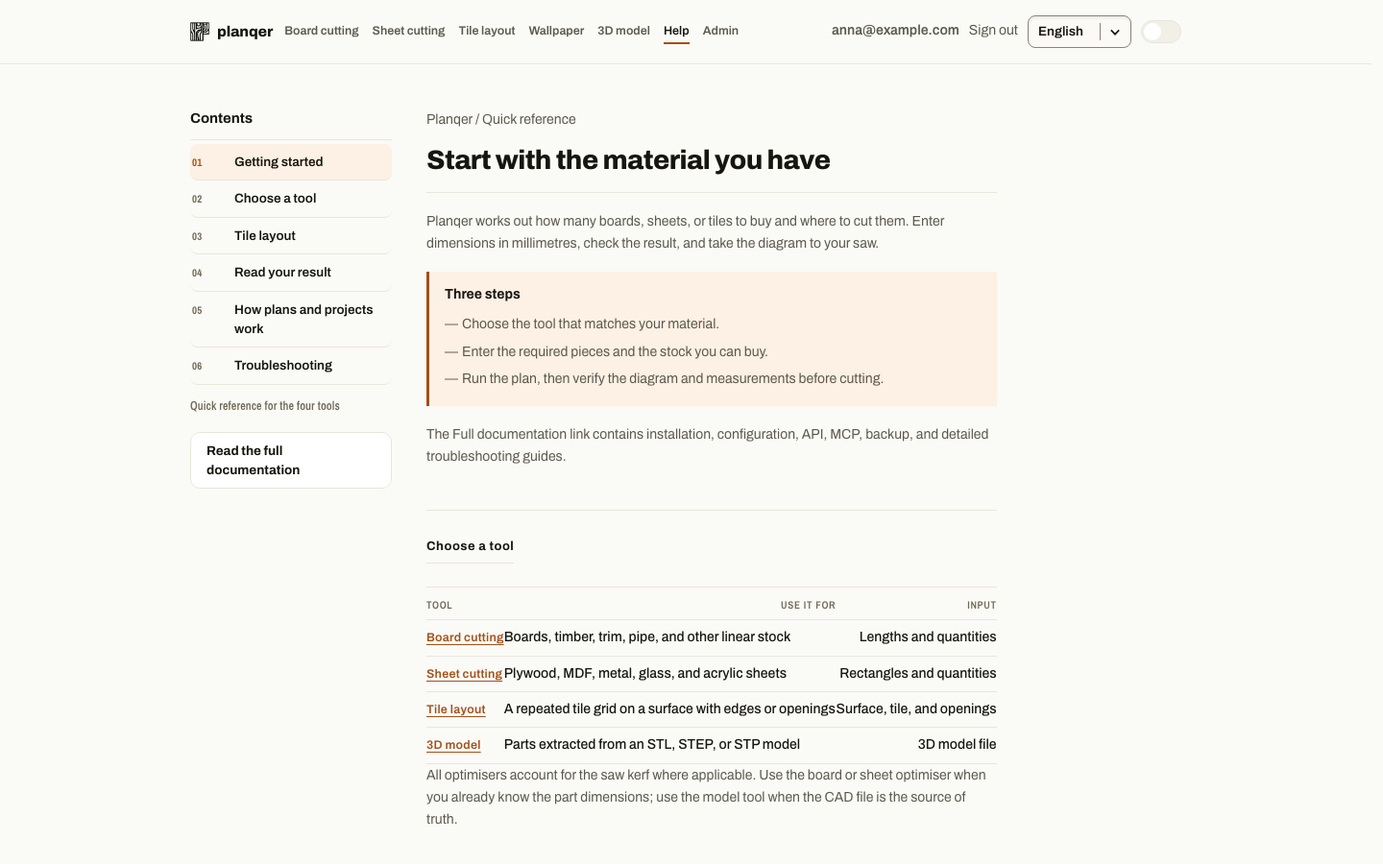
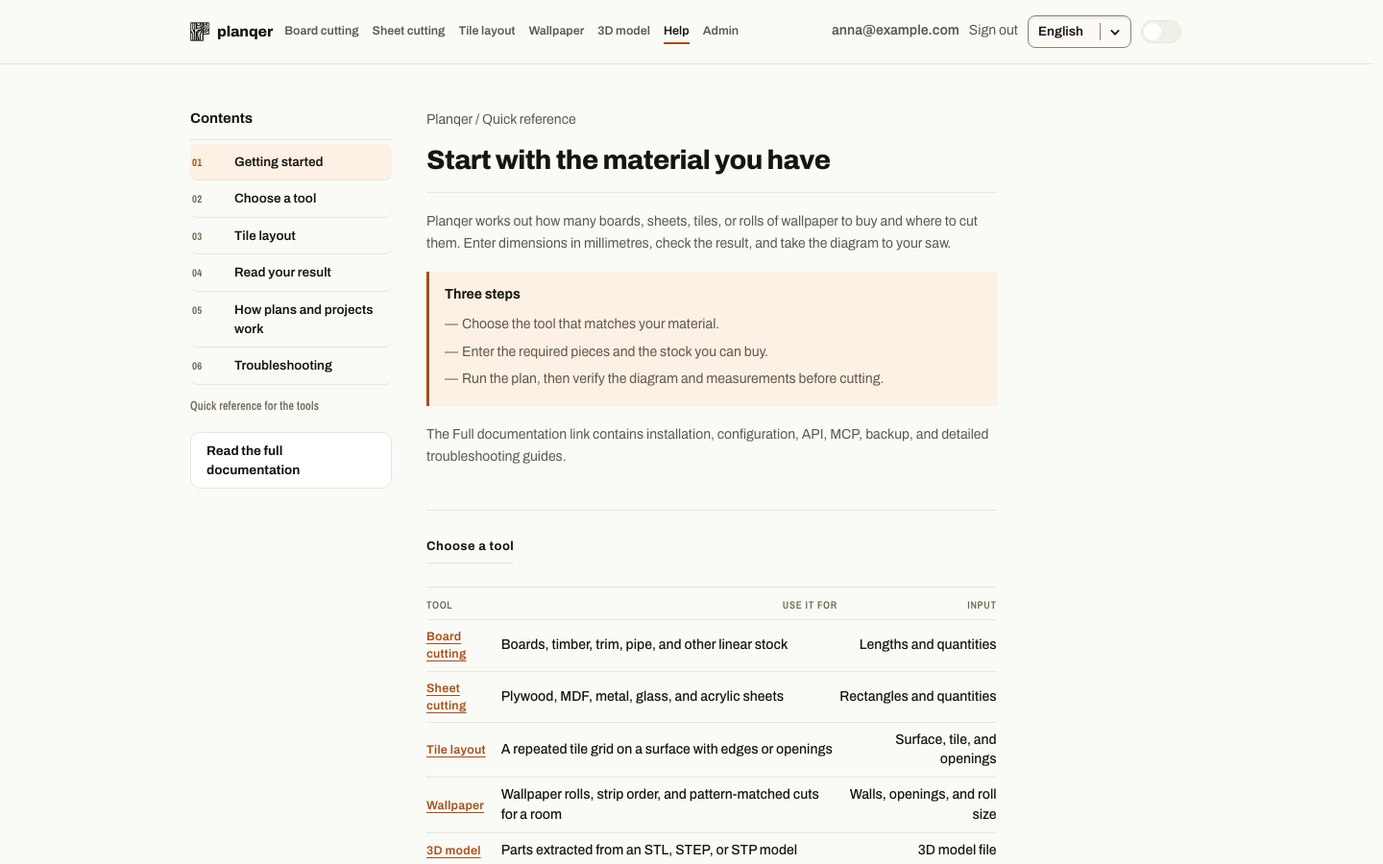
fix: list wallpaper in the Help quick reference
The Help page called itself a reference for the four tools and left
wallpaper out of the tool table and intro. Add it in English, Norwegian
and Swedish and retake the Help screenshot.

diff --git a/frontend/src/i18n/locales/sv-SE.js b/frontend/src/i18n/locales/sv-SE.js
@@ -106,9 +106,9 @@ const locale = {
     turnedParts: 'En streckad kontur markerar en del som roterats 90° för att få plats. Stäng av rotation om fiberriktningen eller mönstret måste följa en bestämd riktning.',
     sheetWaste: 'Skrafferingen markerar materialet som inte används till delarna.',
 
-    sectionGettingStarted: 'Kom igång', sectionChooseTool: 'Välj ett verktyg', sectionTileLayout: 'Plattlayout', sectionResults: 'Läs resultatet', sectionTroubleshooting: 'Felsökning', sectionPlansProjects: "Så fungerar planer och projekt", plansProjectsTitle: "Så fungerar planer och projekt", plansDefinition: "En plan är ett sparat resultat: kapningen för en uppsättning brädor, en skivlayout, en plattlayout eller en tapetplan. Ett projekt är jobbet planerna hör till, till exempel en stol eller en kund.", plansShopping: "Ett projekt ger dig en inköpslista och ett utskrivbart jobbpaket för alla sina planer.", plansSteps: "Spara en plan", plansStepOne: "Planera något och tryck sedan på Namnge och spara.", plansStepTwo: "Ge planen ett namn och välj ett projekt. Vid första sparningen finns inga projekt att välja, så Nytt projekt… är förvalt med namnet Mina planer. Ändra namnet om du vill.", plansStepThree: "Nästa gång är projektet du senast använde förvalt. Välj Nytt projekt… för att börja ett nytt jobb.", plansStepFour: "Ångrat dig? Med Flytta till… på en plan, eller genom att dra den till ett projekt på instrumentpanelen, lägger du den någon annanstans.", contents: 'Innehåll', quickReference: 'Snabbreferens för de fyra verktygen', fullDocumentation: 'Läs hela dokumentationen', eyebrow: 'Planqer / Snabbreferens', startTitle: 'Börja med materialet du har',
-    startIntro: 'Planqer räknar ut hur många brädor, skivor eller plattor du ska köpa och var de ska kapas. Ange mått i millimeter, kontrollera resultatet och ta med diagrammet till sågen.', threeSteps: 'Tre steg', startStepOne: 'Välj verktyget som passar ditt material.', startStepTwo: 'Ange delarna du behöver och råmaterialet du kan köpa.', startStepThree: 'Kör planen och kontrollera sedan diagrammet och måtten innan du kapar.', fullDocsIntro: 'Länken till hela dokumentationen innehåller guider för installation, konfiguration, API, MCP, säkerhetskopiering och detaljerad felsökning.',
-    chooseTitle: 'Välj ett verktyg', tableTool: 'Verktyg', tableUse: 'Använd det för', tableInput: 'Inmatning', boardUse: 'Brädor, virke, lister, rör och annat linjärt material', boardInput: 'Längder och antal', sheetUse: 'Plywood-, MDF-, metall-, glas- och akrylskivor', sheetInput: 'Rektanglar och antal', tileUse: 'Ett upprepat plattrutnät på en yta med kanter eller öppningar', tileInput: 'Yta, plattor och öppningar', modelUse: 'Delar som hämtats från en STL-, STEP- eller STP-modell', modelInput: '3D-modellfil', chooseIntro: 'Alla optimerare tar hänsyn till sågspåret där det är relevant. Använd bräd- eller skivoptimeraren när du redan känner till delarnas mått; använd modellverktyget när CAD-filen är källan.',
+    sectionGettingStarted: 'Kom igång', sectionChooseTool: 'Välj ett verktyg', sectionTileLayout: 'Plattlayout', sectionResults: 'Läs resultatet', sectionTroubleshooting: 'Felsökning', sectionPlansProjects: "Så fungerar planer och projekt", plansProjectsTitle: "Så fungerar planer och projekt", plansDefinition: "En plan är ett sparat resultat: kapningen för en uppsättning brädor, en skivlayout, en plattlayout eller en tapetplan. Ett projekt är jobbet planerna hör till, till exempel en stol eller en kund.", plansShopping: "Ett projekt ger dig en inköpslista och ett utskrivbart jobbpaket för alla sina planer.", plansSteps: "Spara en plan", plansStepOne: "Planera något och tryck sedan på Namnge och spara.", plansStepTwo: "Ge planen ett namn och välj ett projekt. Vid första sparningen finns inga projekt att välja, så Nytt projekt… är förvalt med namnet Mina planer. Ändra namnet om du vill.", plansStepThree: "Nästa gång är projektet du senast använde förvalt. Välj Nytt projekt… för att börja ett nytt jobb.", plansStepFour: "Ångrat dig? Med Flytta till… på en plan, eller genom att dra den till ett projekt på instrumentpanelen, lägger du den någon annanstans.", contents: 'Innehåll', quickReference: 'Snabbreferens för verktygen', fullDocumentation: 'Läs hela dokumentationen', eyebrow: 'Planqer / Snabbreferens', startTitle: 'Börja med materialet du har',
+    startIntro: 'Planqer räknar ut hur många brädor, skivor, plattor eller tapetrullar du ska köpa och var de ska kapas. Ange mått i millimeter, kontrollera resultatet och ta med diagrammet till sågen.', threeSteps: 'Tre steg', startStepOne: 'Välj verktyget som passar ditt material.', startStepTwo: 'Ange delarna du behöver och råmaterialet du kan köpa.', startStepThree: 'Kör planen och kontrollera sedan diagrammet och måtten innan du kapar.', fullDocsIntro: 'Länken till hela dokumentationen innehåller guider för installation, konfiguration, API, MCP, säkerhetskopiering och detaljerad felsökning.',
+    chooseTitle: 'Välj ett verktyg', tableTool: 'Verktyg', tableUse: 'Använd det för', tableInput: 'Inmatning', boardUse: 'Brädor, virke, lister, rör och annat linjärt material', boardInput: 'Längder och antal', sheetUse: 'Plywood-, MDF-, metall-, glas- och akrylskivor', sheetInput: 'Rektanglar och antal', tileUse: 'Ett upprepat plattrutnät på en yta med kanter eller öppningar', tileInput: 'Yta, plattor och öppningar', wallpaperUse: 'Tapetrullar, banornas ordning och mönsterpassade kapningar för ett rum', wallpaperInput: 'Väggar, öppningar och rullstorlek', modelUse: 'Delar som hämtats från en STL-, STEP- eller STP-modell', modelInput: '3D-modellfil', chooseIntro: 'Alla optimerare tar hänsyn till sågspåret där det är relevant. Använd bräd- eller skivoptimeraren när du redan känner till delarnas mått; använd modellverktyget när CAD-filen är källan.',
     tileTitle: 'Grunderna i plattlayout', tileIntro: 'Plattverktyget jämför rutnätets placering för det valda mönstret på en rektangulär yta. Det prioriterar användbara kantbitar och varnar när bitarna är smalare än den angivna minimibredden.', surfaceTitle: 'Yta och plattor', surfaceText: 'Ange ytans bredd och höjd och sedan plattans bredd och höjd. Måtten anges i millimeter.', jointTitle: 'Fog och kantavstånd', jointText: 'Fogen är avståndet mellan plattorna. Kantavståndet är mellanrummet mellan plattfältet och ytans kant.', bondTitle: 'Förband', bondText: 'Rak sättning och förskjuten sättning använder rektangulära plattor. Diagonala och fiskbensmönster roterar plattorna och kan skapa polygonala kapmallar.', openingsTitle: 'Öppningar', openingsText: 'Lägg till fönster, dörrar, uttag eller andra rektangulära ytor som ska lämnas fria.', candidatesTitle: 'Förslag på layouter', candidatesText: 'Jämför de föreslagna alternativen. En något mindre effektiv plan kan ha säkrare kantkapningar eller färre olika mått.', templatesTitle: 'Kapmallar', templatesText: 'För alla kapade delar öppnar du kapmallen från kaplistan. Mått och instruktioner är text runt diagrammet och kan markeras.',
     resultsTitle: 'Läs resultatet', cutPlan: 'Kapplan', cutPlanText: 'Diagrammet visar råmaterial, delar, spill och kapordning.', kerf: 'Sågspår', kerfText: 'Materialet som klingan tar bort vid varje kapning.', offcut: 'Restbit', offcutText: 'Materialet som blir kvar efter delar och sågspår.', efficiency: 'Utnyttjande', efficiencyText: 'Andelen av det tillgängliga materialet som används av delarna.', cost: 'Kostnad', costText: 'Valfri materialkostnad där optimeraren stöder det.', beforeCutting: 'Innan du kapar', beforeCuttingText: 'Kontrollera enheter, mått på råmaterial, sågspår, fiberriktning eller orientering och alla viktiga mått. Följ säkra arbetsrutiner för utrustningen.', saveIntro: 'Alla verktyg kräver ett lokalt konto. Tryck på Spara för att spara en plan på den här instansen. Det första kontot som skapas på en ny instans blir administratör.', saveIntro_single: "Tryck på Spara för att behålla en plan. Den sparas på din egen server och finns kvar nästa gång du öppnar Planqer.", saveIntro_demo: "Tryck på Spara för att behålla en plan i den här webbläsaren. Inget laddas upp, och om du rensar webbläsardata försvinner sparade planer.",
     troubleshootingTitle: 'Felsökning', partsFailTitle: 'Delarna får inte plats', partsFailText: 'Kontrollera att alla mått anges i millimeter och lägg till råmaterial som är tillräckligt stort för delarna.', wasteTitle: 'Spillet är större än väntat', wasteText: 'Lägg till realistiska materialalternativ, kontrollera sågspåret och jämför de alternativa förslagen. Tillåt rotation vid skivlayout när materialet medger det.', uploadTitle: 'En modell kan inte laddas upp', uploadText: 'Kontrollera filändelse och storlek och exportera vid behov STL- eller STEP-filen igen från CAD-programmet.', saveFailTitle: 'Ett projekt kan inte sparas', saveFailText: 'Kontrollera att du är inloggad på rätt instans och har tryckt på Spara. Läs eventuella felmeddelanden innan du lämnar sidan.', saveFailText_single: "Kontrollera att du har tryckt på Spara och att servern körs. Läs eventuella felmeddelanden innan du lämnar sidan.", troubleshootingIntro: 'För installationsproblem, serverkonfiguration, API-fel eller detaljerad filhantering använder du hela dokumentationen eller projektets ärendehantering.',

diff --git a/frontend/src/i18n/locales/nb-NO.js b/frontend/src/i18n/locales/nb-NO.js
@@ -106,9 +106,9 @@ const locale = {
     turnedParts: 'Et stiplet omriss markerer en del som er rotert 90° for å få plass. Slå av rotasjon hvis fiberretningen eller mønsteret må følge en bestemt retning.',
     sheetWaste: 'Skraveringen markerer materialet som ikke brukes til delene.',
 
-    sectionGettingStarted: 'Kom i gang', sectionChooseTool: 'Velg et verktøy', sectionTileLayout: 'Flislegging', sectionResults: 'Les resultatet', sectionTroubleshooting: 'Feilsøking', sectionPlansProjects: "Slik fungerer planer og prosjekter", plansProjectsTitle: "Slik fungerer planer og prosjekter", plansDefinition: "En plan er ett lagret resultat: kuttingen for ett sett med materiallengder, én platelayout, én fliselayout eller én tapetplan. Et prosjekt er jobben planene hører til, for eksempel en stol eller en kunde.", plansShopping: "Et prosjekt gir deg én handleliste og én utskriftsvennlig jobbpakke for alle planene sine.", plansSteps: "Lagre en plan", plansStepOne: "Planlegg noe, og trykk deretter på Gi navn og lagre.", plansStepTwo: "Gi planen et navn og velg et prosjekt. Første gang finnes det ingen prosjekter å velge mellom, så Nytt prosjekt… er forhåndsvalgt med navnet Mine planer. Endre navnet hvis du vil.", plansStepThree: "Neste gang er prosjektet du brukte sist forhåndsvalgt. Velg Nytt prosjekt… for å starte en ny jobb.", plansStepFour: "Ombestemt deg? Med Flytt til… på en plan, eller ved å dra den til et prosjekt på dashbordet, legger du den et annet sted.", contents: 'Innhold', quickReference: 'Hurtigreferanse for de fire verktøyene', fullDocumentation: 'Les hele dokumentasjonen', eyebrow: 'Planqer / Hurtigreferanse', startTitle: 'Begynn med materialet du har',
-    startIntro: 'Planqer regner ut hvor mange bord, plater eller fliser du skal kjøpe og hvor de skal kappes. Skriv inn mål i millimeter, kontroller resultatet og ta diagrammet med til sagen.', threeSteps: 'Tre trinn', startStepOne: 'Velg verktøyet som passer til materialet ditt.', startStepTwo: 'Skriv inn delene du trenger og råmaterialet du kan kjøpe.', startStepThree: 'Kjør planen og kontroller diagrammet og målene før du kapper.', fullDocsIntro: 'Lenken til hele dokumentasjonen inneholder veiledninger for installasjon, konfigurasjon, API, MCP, sikkerhetskopiering og detaljert feilsøking.',
-    chooseTitle: 'Velg et verktøy', tableTool: 'Verktøy', tableUse: 'Bruk det til', tableInput: 'Inndata', boardUse: 'Bord, trelast, lister, rør og annet materiale i lengder', boardInput: 'Lengder og antall', sheetUse: 'Kryssfiner-, MDF-, metall-, glass- og akrylplater', sheetInput: 'Rektangler og antall', tileUse: 'Et gjentatt flisrutenett på en overflate med kanter eller åpninger', tileInput: 'Overflate, flis og åpninger', modelUse: 'Deler hentet fra en STL-, STEP- eller STP-modell', modelInput: '3D-modellfil', chooseIntro: 'Alle optimerere tar hensyn til sagsporet der det er relevant. Bruk bord- eller plateoptimereren når du kjenner målene på delene; bruk modellverktøyet når CAD-filen er fasiten.',
+    sectionGettingStarted: 'Kom i gang', sectionChooseTool: 'Velg et verktøy', sectionTileLayout: 'Flislegging', sectionResults: 'Les resultatet', sectionTroubleshooting: 'Feilsøking', sectionPlansProjects: "Slik fungerer planer og prosjekter", plansProjectsTitle: "Slik fungerer planer og prosjekter", plansDefinition: "En plan er ett lagret resultat: kuttingen for ett sett med materiallengder, én platelayout, én fliselayout eller én tapetplan. Et prosjekt er jobben planene hører til, for eksempel en stol eller en kunde.", plansShopping: "Et prosjekt gir deg én handleliste og én utskriftsvennlig jobbpakke for alle planene sine.", plansSteps: "Lagre en plan", plansStepOne: "Planlegg noe, og trykk deretter på Gi navn og lagre.", plansStepTwo: "Gi planen et navn og velg et prosjekt. Første gang finnes det ingen prosjekter å velge mellom, så Nytt prosjekt… er forhåndsvalgt med navnet Mine planer. Endre navnet hvis du vil.", plansStepThree: "Neste gang er prosjektet du brukte sist forhåndsvalgt. Velg Nytt prosjekt… for å starte en ny jobb.", plansStepFour: "Ombestemt deg? Med Flytt til… på en plan, eller ved å dra den til et prosjekt på dashbordet, legger du den et annet sted.", contents: 'Innhold', quickReference: 'Hurtigreferanse for verktøyene', fullDocumentation: 'Les hele dokumentasjonen', eyebrow: 'Planqer / Hurtigreferanse', startTitle: 'Begynn med materialet du har',
+    startIntro: 'Planqer regner ut hvor mange bord, plater, fliser eller tapetruller du skal kjøpe og hvor de skal kappes. Skriv inn mål i millimeter, kontroller resultatet og ta diagrammet med til sagen.', threeSteps: 'Tre trinn', startStepOne: 'Velg verktøyet som passer til materialet ditt.', startStepTwo: 'Skriv inn delene du trenger og råmaterialet du kan kjøpe.', startStepThree: 'Kjør planen og kontroller diagrammet og målene før du kapper.', fullDocsIntro: 'Lenken til hele dokumentasjonen inneholder veiledninger for installasjon, konfigurasjon, API, MCP, sikkerhetskopiering og detaljert feilsøking.',
+    chooseTitle: 'Velg et verktøy', tableTool: 'Verktøy', tableUse: 'Bruk det til', tableInput: 'Inndata', boardUse: 'Bord, trelast, lister, rør og annet materiale i lengder', boardInput: 'Lengder og antall', sheetUse: 'Kryssfiner-, MDF-, metall-, glass- og akrylplater', sheetInput: 'Rektangler og antall', tileUse: 'Et gjentatt flisrutenett på en overflate med kanter eller åpninger', tileInput: 'Overflate, flis og åpninger', wallpaperUse: 'Tapetruller, banerekkefølge og mønstertilpassede kutt for et rom', wallpaperInput: 'Vegger, åpninger og rullestørrelse', modelUse: 'Deler hentet fra en STL-, STEP- eller STP-modell', modelInput: '3D-modellfil', chooseIntro: 'Alle optimerere tar hensyn til sagsporet der det er relevant. Bruk bord- eller plateoptimereren når du kjenner målene på delene; bruk modellverktøyet når CAD-filen er fasiten.',
     tileTitle: 'Grunnleggende flislegging', tileIntro: 'Flisverktøyet sammenligner rutenettets plassering for det valgte mønsteret på en rektangulær overflate. Det prioriterer brukbare kantbiter og varsler når bitene er smalere enn den angitte minstebredden.', surfaceTitle: 'Overflate og flis', surfaceText: 'Skriv inn overflatens bredde og høyde, og deretter flisens bredde og høyde. Målene er i millimeter.', jointTitle: 'Fuge og kantavstand', jointText: 'Fugen er avstanden mellom flisene. Kantavstanden er klaringen mellom flisfeltet og overflatekanten.', bondTitle: 'Forband', bondText: 'Rett og forskjøvet forband bruker rektangulære fliser. Diagonale og fiskebeinsmønstre roterer flisene og kan lage polygonale kappmaler.', openingsTitle: 'Åpninger', openingsText: 'Legg til vinduer, dører, stikkontakter eller andre rektangulære områder som skal være uten flis.', candidatesTitle: 'Alternative layouter', candidatesText: 'Sammenlign de foreslåtte alternativene. En litt mindre effektiv plan kan ha tryggere kantkutt eller færre ulike størrelser.', templatesTitle: 'Kappmaler', templatesText: 'For alle kappede deler åpner du kappmalen fra kapplisten. Mål og instruksjoner er tekst rundt diagrammet og kan markeres.',
     resultsTitle: 'Les resultatet', cutPlan: 'Kapplan', cutPlanText: 'Diagrammet viser råmateriale, deler, svinn og kapperekkefølge.', kerf: 'Sagspor', kerfText: 'Materialet sagbladet fjerner ved hvert kutt.', offcut: 'Restbit', offcutText: 'Materialet som blir igjen etter deler og sagspor.', efficiency: 'Utnyttelse', efficiencyText: 'Andelen av tilgjengelig materiale som brukes av delene.', cost: 'Kostnad', costText: 'Valgfri materialkostnad der optimereren støtter det.', beforeCutting: 'Før du kapper', beforeCuttingText: 'Kontroller enheter, mål på råmaterialet, sagspor, fiberretning eller orientering og alle kritiske mål. Følg trygge arbeidsrutiner for utstyret.', saveIntro: 'Alle verktøy krever en lokal konto. Trykk på Lagre for å lagre en plan på denne instansen. Den første kontoen som opprettes på en ny instans, blir administrator.', saveIntro_single: "Trykk på Lagre for å beholde en plan. Den lagres på din egen server og finnes igjen neste gang du åpner Planqer.", saveIntro_demo: "Trykk på Lagre for å beholde en plan i denne nettleseren. Ingenting lastes opp, og hvis du sletter nettleserdata, forsvinner lagrede planer.",
     troubleshootingTitle: 'Feilsøking', partsFailTitle: 'Delene får ikke plass', partsFailText: 'Kontroller at alle mål er i millimeter, og legg til råmateriale som er stort nok til delene.', wasteTitle: 'Svinnet er høyere enn forventet', wasteText: 'Legg til realistiske materialalternativer, kontroller sagsporet og sammenlign alternativene. Tillat rotasjon for platelayout når materialet tillater det.', uploadTitle: 'En modell kan ikke lastes opp', uploadText: 'Kontroller filendelse og størrelse, og eksporter STL- eller STEP-filen på nytt fra CAD-programmet ved behov.', saveFailTitle: 'Et prosjekt kan ikke lagres', saveFailText: 'Kontroller at du er logget inn på riktig instans og har trykket på Lagre. Les eventuelle feilmeldinger før du forlater siden.', saveFailText_single: "Kontroller at du har trykket på Lagre og at serveren kjører. Les eventuelle feilmeldinger før du forlater siden.", troubleshootingIntro: 'For installasjonsproblemer, serverkonfigurasjon, API-feil eller detaljert filbehandling bruker du hele dokumentasjonen eller prosjektets issues.',

diff --git a/frontend/src/i18n/locales/en-GB.js b/frontend/src/i18n/locales/en-GB.js
@@ -108,9 +108,9 @@ const locale = {
     sheetWaste: 'Hatching marks the material not used by the required parts.',
 
     sectionGettingStarted: 'Getting started', sectionChooseTool: 'Choose a tool', sectionTileLayout: 'Tile layout', sectionResults: 'Read your result', sectionTroubleshooting: 'Troubleshooting', sectionPlansProjects: "How plans and projects work", plansProjectsTitle: "How plans and projects work", plansDefinition: "A plan is one saved result: the cuts for one set of boards, one sheet layout, one tile layout or one wallpaper plan. A project is the job those plans belong to, such as a chair or a customer.", plansShopping: "A project gives you one shopping list and one printable job pack for all its plans.", plansSteps: "Saving a plan", plansStepOne: "Plan something, then press Name and save.", plansStepTwo: "Give the plan a name and choose a project. Your first save has no projects to choose from, so New project… is preselected with the name My plans. Change the name if you like.", plansStepThree: "Next time the project you used last is preselected. Choose New project… to start another job.", plansStepFour: "Changed your mind? Move to… on a plan, or dragging it onto a project on the dashboard, files it somewhere else.",
-    contents: 'Contents', quickReference: 'Quick reference for the four tools', fullDocumentation: 'Read the full documentation', eyebrow: 'Planqer / Quick reference', startTitle: 'Start with the material you have',
-    startIntro: 'Planqer works out how many boards, sheets, or tiles to buy and where to cut them. Enter dimensions in millimetres, check the result, and take the diagram to your saw.', threeSteps: 'Three steps', startStepOne: 'Choose the tool that matches your material.', startStepTwo: 'Enter the required pieces and the stock you can buy.', startStepThree: 'Run the plan, then verify the diagram and measurements before cutting.', fullDocsIntro: 'The Full documentation link contains installation, configuration, API, MCP, backup, and detailed troubleshooting guides.',
-    chooseTitle: 'Choose a tool', tableTool: 'Tool', tableUse: 'Use it for', tableInput: 'Input', boardUse: 'Boards, timber, trim, pipe, and other linear stock', boardInput: 'Lengths and quantities', sheetUse: 'Plywood, MDF, metal, glass, and acrylic sheets', sheetInput: 'Rectangles and quantities', tileUse: 'A repeated tile grid on a surface with edges or openings', tileInput: 'Surface, tile, and openings', modelUse: 'Parts extracted from an STL, STEP, or STP model', modelInput: '3D model file', chooseIntro: 'All optimisers account for the saw kerf where applicable. Use the board or sheet optimiser when you already know the part dimensions; use the model tool when the CAD file is the source of truth.',
+    contents: 'Contents', quickReference: 'Quick reference for the tools', fullDocumentation: 'Read the full documentation', eyebrow: 'Planqer / Quick reference', startTitle: 'Start with the material you have',
+    startIntro: 'Planqer works out how many boards, sheets, tiles, or rolls of wallpaper to buy and where to cut them. Enter dimensions in millimetres, check the result, and take the diagram to your saw.', threeSteps: 'Three steps', startStepOne: 'Choose the tool that matches your material.', startStepTwo: 'Enter the required pieces and the stock you can buy.', startStepThree: 'Run the plan, then verify the diagram and measurements before cutting.', fullDocsIntro: 'The Full documentation link contains installation, configuration, API, MCP, backup, and detailed troubleshooting guides.',
+    chooseTitle: 'Choose a tool', tableTool: 'Tool', tableUse: 'Use it for', tableInput: 'Input', boardUse: 'Boards, timber, trim, pipe, and other linear stock', boardInput: 'Lengths and quantities', sheetUse: 'Plywood, MDF, metal, glass, and acrylic sheets', sheetInput: 'Rectangles and quantities', tileUse: 'A repeated tile grid on a surface with edges or openings', tileInput: 'Surface, tile, and openings', wallpaperUse: 'Wallpaper rolls, strip order, and pattern-matched cuts for a room', wallpaperInput: 'Walls, openings, and roll size', modelUse: 'Parts extracted from an STL, STEP, or STP model', modelInput: '3D model file', chooseIntro: 'All optimisers account for the saw kerf where applicable. Use the board or sheet optimiser when you already know the part dimensions; use the model tool when the CAD file is the source of truth.',
     tileTitle: 'Tile layout essentials', tileIntro: 'The tile tool compares grid positions for your chosen pattern on a rectangular surface. It prioritises usable edge pieces and warns when pieces are narrower than your minimum width.', surfaceTitle: 'Surface and tile', surfaceText: 'Enter the surface width and height, then the tile width and height. Values are in millimetres.', jointTitle: 'Joint and perimeter gap', jointText: 'Joint is the gap between tiles. Perimeter gap is clearance between the tile field and the surface edge.', bondTitle: 'Bond pattern', bondText: 'Stack and running use rectangular tiles. Diagonal and herringbone patterns rotate tiles and may create polygonal cut templates.', openingsTitle: 'Openings', openingsText: 'Add windows, doors, sockets, or other rectangular areas that must remain uncovered.', candidatesTitle: 'Candidate layouts', candidatesText: 'Compare the suggested candidates. A slightly less efficient plan may have safer edge cuts or fewer distinct sizes.', templatesTitle: 'Cut templates', templatesText: 'For every cut piece, open the cut template from the cut list. Measurements and instructions are selectable text around the diagram.',
     resultsTitle: 'Read your result', cutPlan: 'Cut plan', cutPlanText: 'The diagram shows the stock, parts, waste, and cut order.', kerf: 'Kerf', kerfText: 'Material removed by the blade at each cut.', offcut: 'Offcut', offcutText: 'Material left after the required pieces and kerf are removed.', efficiency: 'Efficiency', efficiencyText: 'The share of the available material used by required pieces.', cost: 'Cost', costText: 'Optional material pricing, available where the optimiser supports it.', beforeCutting: 'Before you cut', beforeCuttingText: 'Check units, stock dimensions, kerf, grain or orientation constraints, and every critical measurement. Follow safe operating procedures for your equipment.', saveIntro: 'All tools require a local account. Press Save to keep a plan on this instance. The first account created on a new instance becomes its administrator.', saveIntro_single: "Press Save to keep a plan. It is stored on your own server and is there the next time you open Planqer.", saveIntro_demo: "Press Save to keep a plan in this browser. Nothing is uploaded, and clearing browser data deletes saved plans.",
     troubleshootingTitle: 'Troubleshooting', partsFailTitle: 'Parts do not fit', partsFailText: 'Check that all dimensions are in millimetres and add raw material large enough for the required parts.', wasteTitle: 'Waste is higher than expected', wasteText: 'Add realistic stock options, verify kerf, and compare the alternative candidates. For sheet layouts, allow rotation when the material permits it.', uploadTitle: 'A model upload fails', uploadText: 'Check the file extension and size, then re-export the STL or STEP file from your CAD software if needed.', saveFailTitle: 'A project does not save', saveFailText: 'Check that you are signed in to the correct instance and have pressed Save. Check any error message before leaving the page.', saveFailText_single: "Check that you pressed Save and that the server is running. Check any error message before leaving the page.", troubleshootingIntro: 'For installation issues, server configuration, API errors, or detailed file-processing help, use the full documentation or the project issue tracker.',

diff --git a/frontend/src/components/Help.test.jsx b/frontend/src/components/Help.test.jsx
@@ -1,4 +1,4 @@
-import { render, screen } from '@testing-library/react';
+import { render, screen, within } from '@testing-library/react';
 import { MemoryRouter } from 'react-router-dom';
 import { AuthProvider } from '../contexts/AuthContext';
 import HelpPage from './Help';
@@ -20,6 +20,8 @@ describe('HelpPage', () => {
 
     expect(await screen.findByRole('heading', { name: 'Start with the material you have' })).toBeInTheDocument();
     expect(screen.getByRole('heading', { name: 'Tile layout essentials' })).toBeInTheDocument();
+    expect(screen.getByText('Quick reference for the tools')).toBeInTheDocument();
+    expect(within(screen.getAllByRole('table')[0]).getByRole('link', { name: 'Wallpaper' })).toHaveAttribute('href', '/wallpaper');
     expect(screen.getAllByRole('link', { name: 'Read the full documentation' })).toHaveLength(2);
     expect(screen.getAllByRole('link', { name: 'Read the full documentation' })[0]).toHaveAttribute(
       'href',

diff --git a/frontend/src/components/Help.jsx b/frontend/src/components/Help.jsx
@@ -110,6 +110,11 @@ const HelpPage = () => {
                 <td>{t('help.tileInput')}</td>
               </tr>
               <tr>
+                <td style={{ textAlign: 'left' }}><Link to="/wallpaper">{t('common.wallpaperPlanner')}</Link></td>
+                <td style={{ textAlign: 'left' }}>{t('help.wallpaperUse')}</td>
+                <td>{t('help.wallpaperInput')}</td>
+              </tr>
+              <tr>
                 <td style={{ textAlign: 'left' }}><Link to="/model-cutlist">{t('common.modelCutlist')}</Link></td>
                 <td style={{ textAlign: 'left' }}>{t('help.modelUse')}</td>
                 <td>{t('help.modelInput')}</td>
